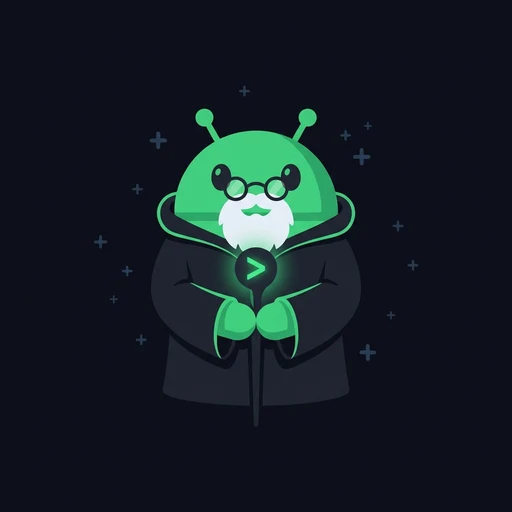
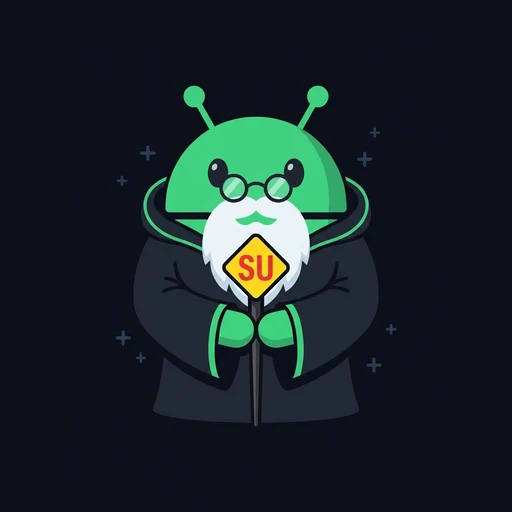
feat(web): Guru Daemon canon — staff with SU emblem; pricing card swap
Owner picks the STAFF variant with 'SU' replacing the '>' glyph. New
render OCR-verified via red-isolation (reads 'SU' on both tesseract psm
11/10); the yellow diamond staff emblem matches the SU superhero's chest
shield. Pricing Guru card now fronts the canonical guru-staff.webp (SU
superhero interim ends). Circuit-robe variant removed. Sources committed;
brand canon marked owner-approved. Cost: 2 renders, ~$0.041.

diff --git a/.agents/skills/brand-image/SKILL.md b/.agents/skills/brand-image/SKILL.md
@@ -24,12 +24,13 @@ nano-gpt model roster, and QA doctrine. This file is the PROJECT layer: what to 
    (= superuser; also sidesteps DC's 'S' trademark). NO halo. Canon prompt:
    `references/su-mascot-prompt.txt`.
 1b. **Guru Daemon — the Guru Daemon pro-tools product robot** (Terminal Editor, Log
-   Analysis). A wise OLD robot: white beard, round eyeglasses, dark charcoal monk
-   robe hex #1A1D24 with terminal-green accents, green head/hands, NO halo, NO cape.
-   Two candidates published (owner pick PENDING — agent cannot visually verify art):
-   `img/brand/guru-staff.webp` (staff topped with a glowing '>' prompt glyph) and
-   `img/brand/guru-circuit.webp` (seated, circuit-trace robe trim). Sources
-   `apps/web/tools/assets/guru-{staff,circuit}.jpg`. SU fronted the product interim.
+   Analysis). OWNER-APPROVED CHARACTER (2026-11-04): a wise OLD robot — white beard,
+   round eyeglasses, dark charcoal monk robe hex #1A1D24 with terminal-green trim,
+   green head/hands, NO halo, NO cape — holding a slim staff topped with the yellow
+   diamond SU emblem (red letters, matches the SU superhero's chest shield). Canonical
+   render `img/brand/guru-staff.webp`, source `apps/web/tools/assets/guru-staff-su.jpg`
+   (red-isolation OCR-verified 'SU'). Rejected: circuit-robe variant, '>' staff glyph.
+   SU fronted the product interim (ended 2026-11-04).
 2. **Guardian Angel — the Guardian Angel monitoring product robot.** Green body, thin
    golden halo, NO cape. Canon prompt: `references/guardian-angel-prompt.txt`.
    Wardrobe studies published under `/img/brand/`: hooded robe, swaddle blanket,
